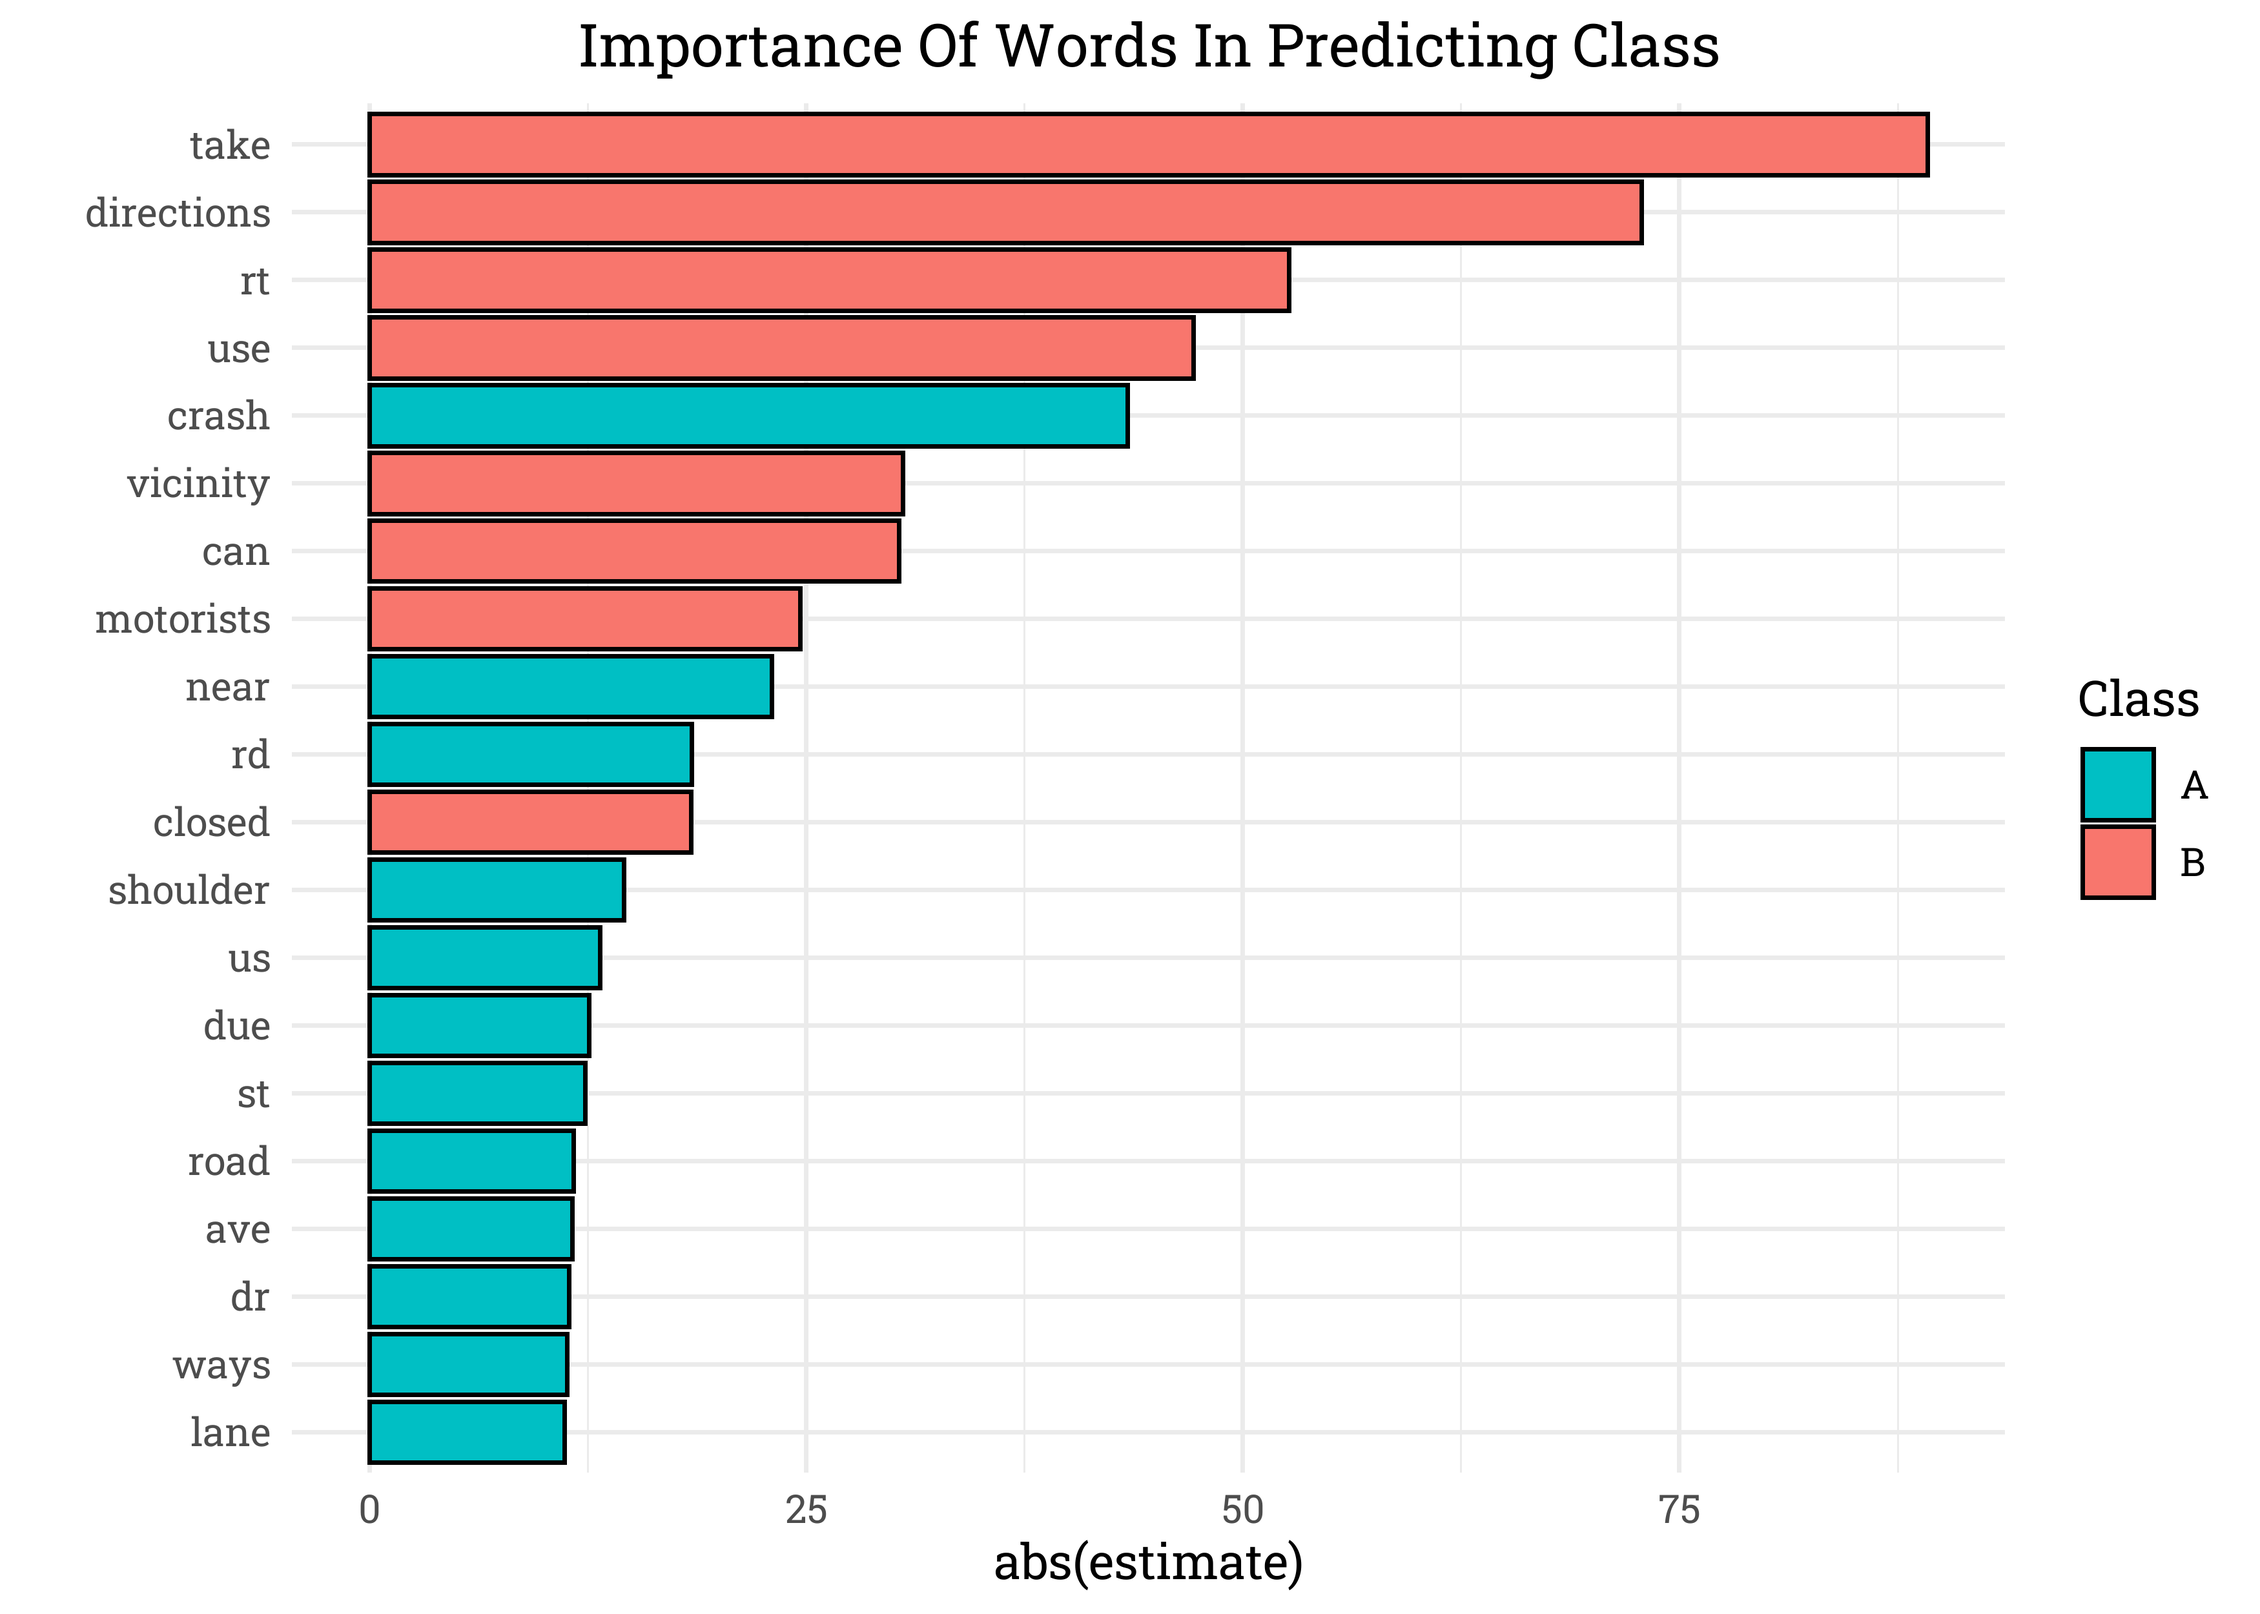
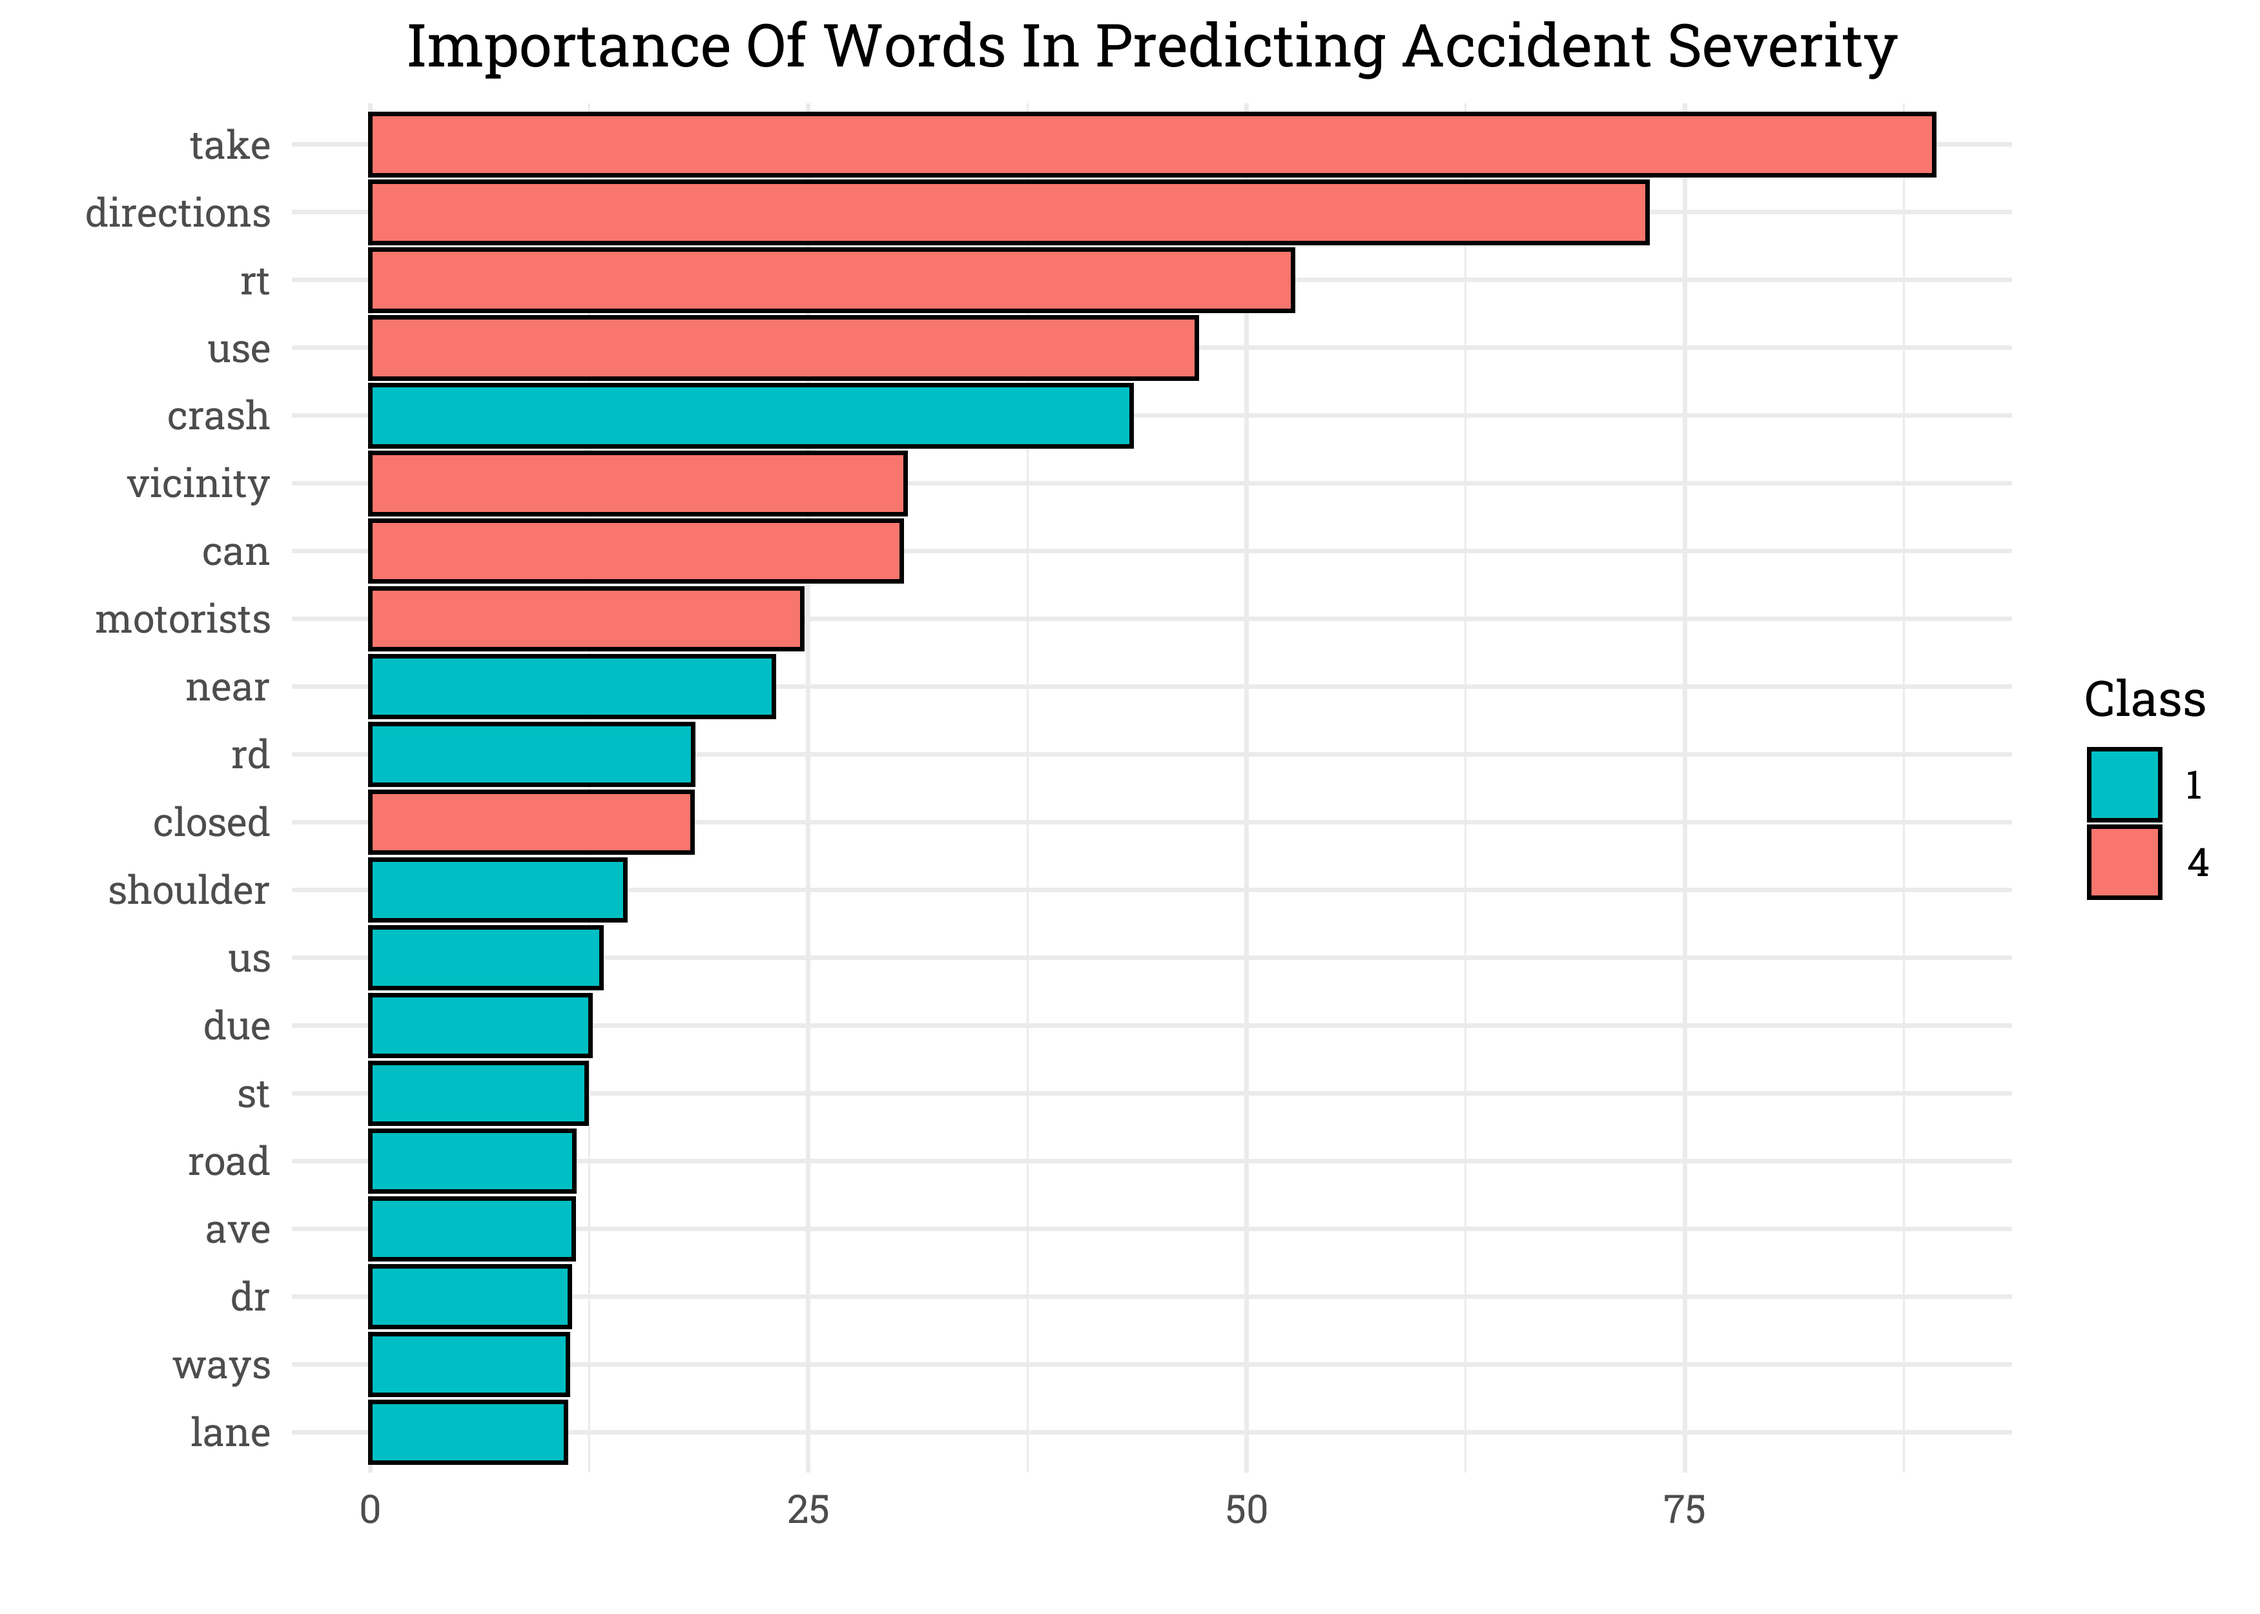
plot details

diff --git a/Car Accidents/Car-Accidents.md b/Car Accidents/Car-Accidents.md
@@ -46,7 +46,7 @@ library(tidymodels)
     ## x yardstick::spec() masks readr::spec()
     ## x recipes::step()   masks stats::step()
     ## x tune::tune()      masks parsnip::tune()
-    ## * Learn how to get started at https://www.tidymodels.org/start/
+    ## * Use suppressPackageStartupMessages() to eliminate package startup messages
 
 ``` r
 library(textrecipes)
@@ -114,9 +114,9 @@ glm_fit %>%
   filter(term != "(Intercept)") %>%
   mutate(term = str_remove(term, "tfidf_description_")) %>% 
   slice_max(abs(estimate), n = 20) %>% 
-  ggplot(aes(abs(estimate), fct_reorder(term, abs(estimate)), fill = ifelse(estimate < 0, "A", "B"))) + geom_col(color = "black") +
+  ggplot(aes(abs(estimate), fct_reorder(term, abs(estimate)), fill = ifelse(estimate < 0, "1", "4"))) + geom_col(color = "black") +
   scale_fill_discrete(direction = -1) +
-  labs(fill = "Class", y = "", title = str_to_title("Importance of words in predicting class"))
+  labs(fill = "Class", y = "", title = str_to_title("Importance of words in predicting Accident Severity"), x = "")
 ```
 
 ![](Car-Accidents_files/figure-gfm/unnamed-chunk-6-1.png)<!-- -->
